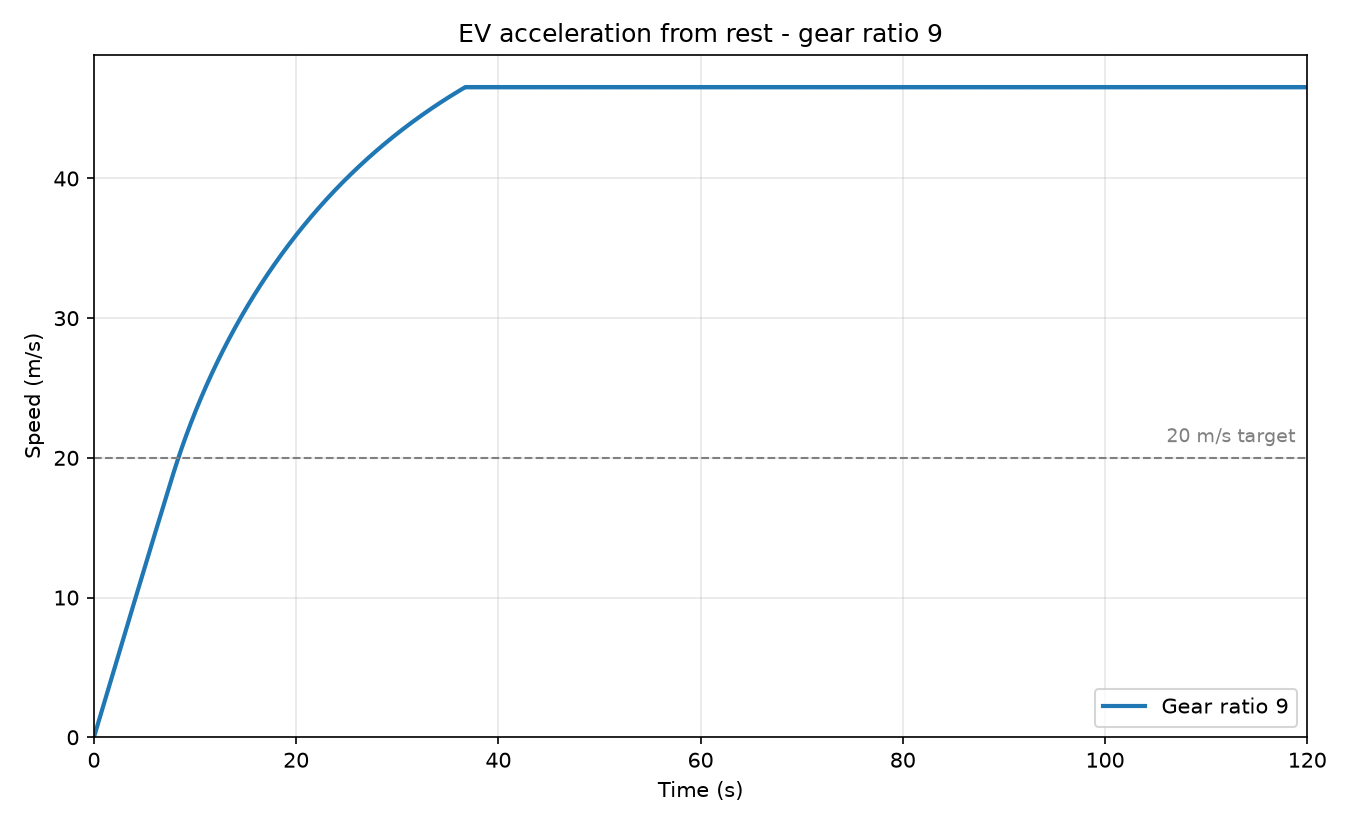
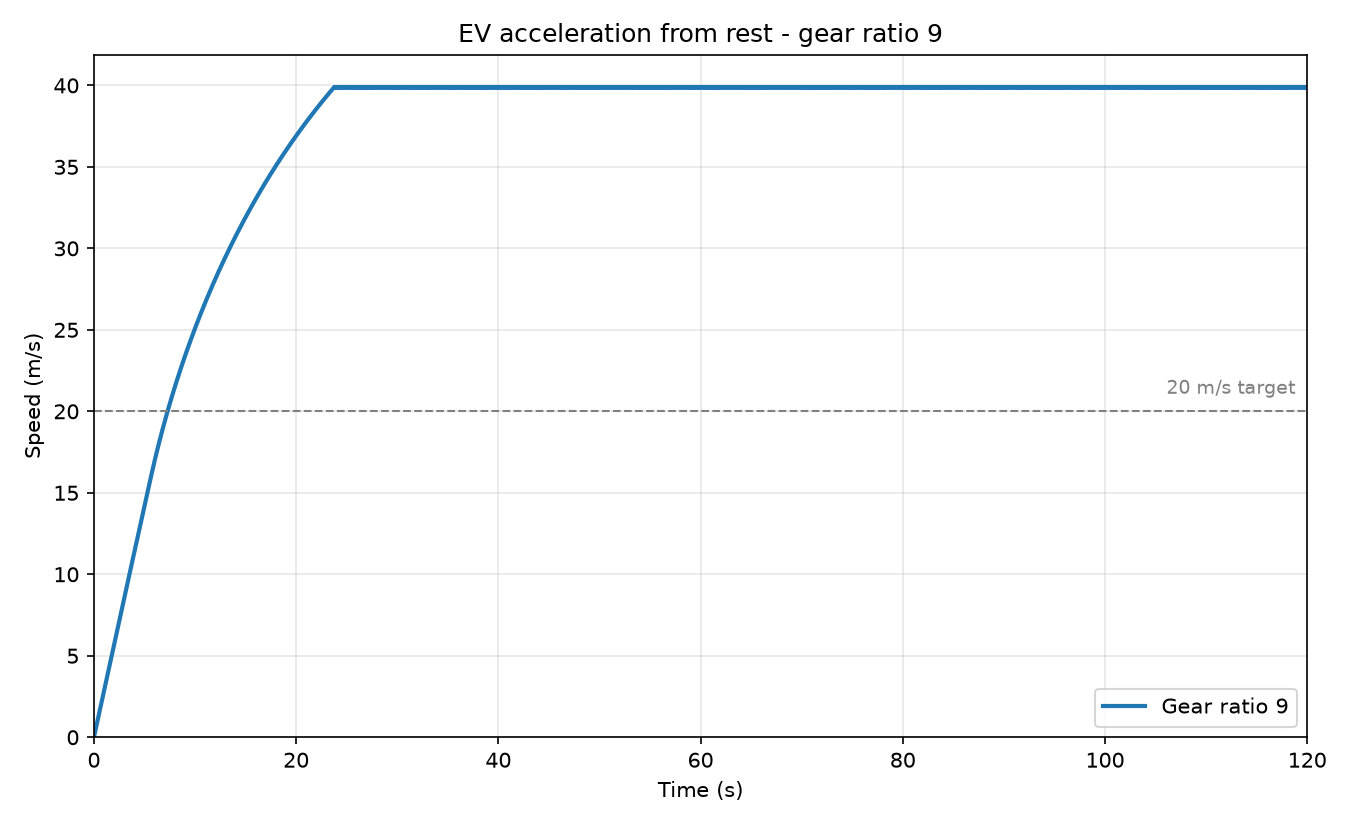
Allow the gear ratio to be passed on the command line
Running `python ev_sim.py 8.5` now tries a ratio without editing the file;
with no argument it still uses the GEAR_RATIO constant. Adds a clearly
labelled summary block reporting the two required figures (time to 20 m/s
and top speed) for the selected ratio.

The hill plot filename now carries the gear ratio, so experimenting with a
different ratio cannot silently overwrite the figure report.md embeds.

diff --git a/ev_sim.py b/ev_sim.py
@@ -25,13 +25,21 @@ The loop, matching the blog's block diagram:
       |                                           v
       +---  new speed  <---  acceleration  <---  wheel force
 
-Only two imports are needed:
+Only three imports are needed:
     math               - for pi, sin and atan. The loop works on one number
                          at a time (a scalar), so numpy would add nothing.
+    sys                - to read an optional gear ratio typed on the command
+                         line, so a different ratio can be tried without
+                         editing the file.
     matplotlib.pyplot  - to draw the speed-vs-time plots.
+
+Usage:
+    python ev_sim.py          # uses GEAR_RATIO set below (9)
+    python ev_sim.py 8.5      # tries a gear ratio of 8.5 instead
 """
 
 import math
+import sys
 
 import matplotlib
 matplotlib.use("Agg")  # render straight to PNG files; no interactive window needed
@@ -228,6 +236,32 @@ def label(gear_ratio):
     return f"{gear_ratio:g}"
 
 
+def gear_ratio_from_command_line():
+    """Return the gear ratio for the headline run.
+
+    Lets a ratio be tried straight from the terminal (`python ev_sim.py 8.5`)
+    instead of editing the file each time. With no argument given, it falls
+    back to the GEAR_RATIO constant set at the top.
+
+    sys.argv is the list of words typed on the command line, with the script
+    name itself at position 0, so any gear ratio would be at position 1.
+    """
+    if len(sys.argv) < 2:
+        return GEAR_RATIO
+
+    try:
+        ratio = float(sys.argv[1])
+    except ValueError:
+        print(f"'{sys.argv[1]}' is not a number - using {label(GEAR_RATIO)} instead.\n")
+        return GEAR_RATIO
+
+    if ratio <= 0:
+        print(f"A gear ratio must be positive - using {label(GEAR_RATIO)} instead.\n")
+        return GEAR_RATIO
+
+    return ratio
+
+
 # ---------------------------------------------------------------------------
 # INDEPENDENT CROSS-CHECKS
 # These recompute the expected top speed with algebra rather than simulation,
@@ -310,6 +344,21 @@ def main():
     assert 2.3 <= checkpoint <= 2.5, f"Checkpoint failed: got {checkpoint:.3f} m/s"
     print("  PASS\n")
 
+    # -- The selected gear ratio -------------------------------------------
+    # Either typed on the command line or taken from GEAR_RATIO at the top.
+    # These are the three outputs the challenge asks the program to report.
+    selected_ratio = gear_ratio_from_command_line()
+    times, speeds = simulate(selected_ratio)
+    reached = time_to_reach(times, speeds, TARGET_SPEED)
+
+    print("=" * 62)
+    print(f"SELECTED GEAR RATIO: {label(selected_ratio)}")
+    print("=" * 62)
+    print(f"  time to {TARGET_SPEED:g} m/s : "
+          f"{f'{reached:.2f} s' if reached is not None else 'never reached'}")
+    print(f"  top speed      : {max(speeds):.2f} m/s")
+    print()
+
     # -- Task 1 and 2: the three gear ratios on flat ground ----------------
     print("=" * 62)
     print("RESULTS - FLAT GROUND")
@@ -345,12 +394,11 @@ def main():
     print("PLOTS")
     print("=" * 62)
 
-    # Task 1: the headline run at whatever GEAR_RATIO is set to at the top.
-    times, speeds = simulate(GEAR_RATIO)
+    # Task 1: the headline run, at whichever ratio was selected above.
     plot_runs(
-        [(f"Gear ratio {label(GEAR_RATIO)}", times, speeds)],
-        f"EV acceleration from rest - gear ratio {label(GEAR_RATIO)}",
-        f"speed_vs_time_gr{label(GEAR_RATIO)}.png",
+        [(f"Gear ratio {label(selected_ratio)}", times, speeds)],
+        f"EV acceleration from rest - gear ratio {label(selected_ratio)}",
+        f"speed_vs_time_gr{label(selected_ratio)}.png",
     )
 
     # Task 2: all three ratios overlaid so the tradeoff is visible at a glance.
@@ -383,15 +431,14 @@ def main():
     print()
 
     # Flat vs hill at the headline ratio, to show the penalty directly.
-    flat_times, flat_speeds = simulate(GEAR_RATIO)
-    hill_times, hill_speeds = simulate(GEAR_RATIO, grade=HILL_GRADE)
+    hill_times, hill_speeds = simulate(selected_ratio, grade=HILL_GRADE)
     plot_runs(
         [
-            (f"Flat ground (ratio {label(GEAR_RATIO)})", flat_times, flat_speeds),
-            (f"{HILL_GRADE * 100:g}% hill (ratio {label(GEAR_RATIO)})", hill_times, hill_speeds),
+            (f"Flat ground (ratio {label(selected_ratio)})", times, speeds),
+            (f"{HILL_GRADE * 100:g}% hill (ratio {label(selected_ratio)})", hill_times, hill_speeds),
         ],
-        f"Effect of a {HILL_GRADE * 100:g}% gradient - gear ratio {label(GEAR_RATIO)}",
-        "speed_vs_time_hill_5pct.png",
+        f"Effect of a {HILL_GRADE * 100:g}% gradient - gear ratio {label(selected_ratio)}",
+        f"speed_vs_time_hill_5pct_gr{label(selected_ratio)}.png",
     )
 
 

diff --git a/README.md b/README.md
@@ -19,24 +19,45 @@ pip install -r requirements.txt
 python ev_sim.py
 ```
 
-This prints the results to the console and writes three plots:
+The program prints its results to the console — the time to reach 20 m/s and the top speed for each
+gear ratio — and writes three plots:
 
 | File | What it shows |
 |---|---|
 | `speed_vs_time_gr9.png` | Speed vs time at a gear ratio of 9 (Task 1) |
 | `speed_vs_time_all_ratios.png` | Gear ratios 7, 9 and 10.5 overlaid (Task 2) |
-| `speed_vs_time_hill_5pct.png` | Flat ground vs a 5% hill (bonus) |
+| `speed_vs_time_hill_5pct_gr9.png` | Flat ground vs a 5% hill (bonus) |
+
+Sample output:
+
+```
+==============================================================
+SELECTED GEAR RATIO: 9
+==============================================================
+  time to 20 m/s : 8.36 s
+  top speed      : 46.55 m/s
+```
 
 ## Changing the gear ratio
 
-The gear ratio is a named constant near the top of [`ev_sim.py`](ev_sim.py):
+Two ways, whichever suits.
+
+**Pass it on the command line** to try a ratio without touching the file:
+
+```bash
+python ev_sim.py 8.5      # try a gear ratio of 8.5
+python ev_sim.py 12       # try a gear ratio of 12
+```
+
+**Or edit the constant** near the top of [`ev_sim.py`](ev_sim.py) to change the default:
 
 ```python
 GEAR_RATIO = 9.0     # <<< THE MAIN INPUT: change me
 ```
 
-Edit that one number and re-run. The plot filename follows the ratio automatically.
-The list of ratios used for the comparison table is right below it:
+Either way the plot filenames follow the ratio automatically, so trying a new ratio never
+overwrites the figures from a previous one. The list of ratios used for the comparison table is
+just below the constant:
 
 ```python
 COMPARISON_RATIOS = [7.0, 9.0, 10.5]

diff --git a/report.md b/report.md
@@ -148,7 +148,7 @@ Adding the blog's gradient resistance, `F_gradient = m · g · sin(θ)` with `θ
 | 9 | 8.36 s | 10.56 s | 46.55 m/s | 44.66 m/s |
 | 10.5 | 7.29 s | 8.92 s | 39.90 m/s | 39.90 m/s |
 
-![Flat ground vs 5% hill](speed_vs_time_hill_5pct.png)
+![Flat ground vs 5% hill](speed_vs_time_hill_5pct_gr9.png)
 
 Two things worth noting:
 
